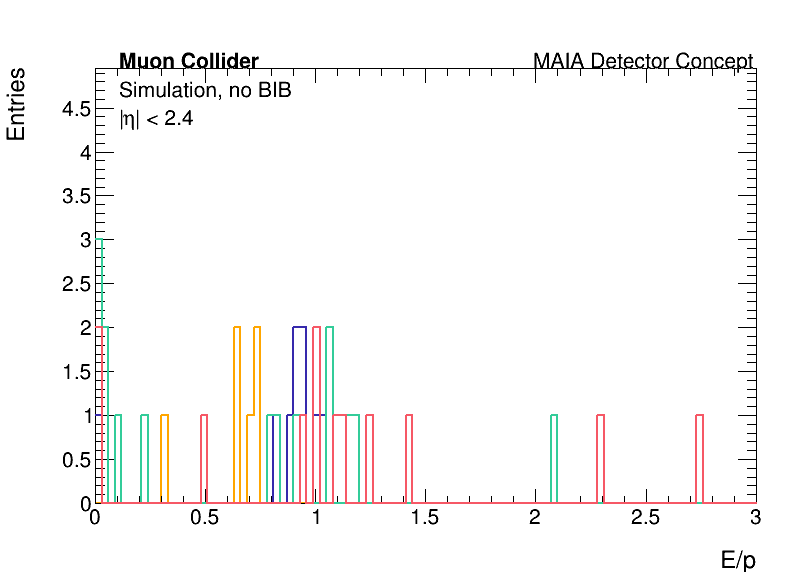
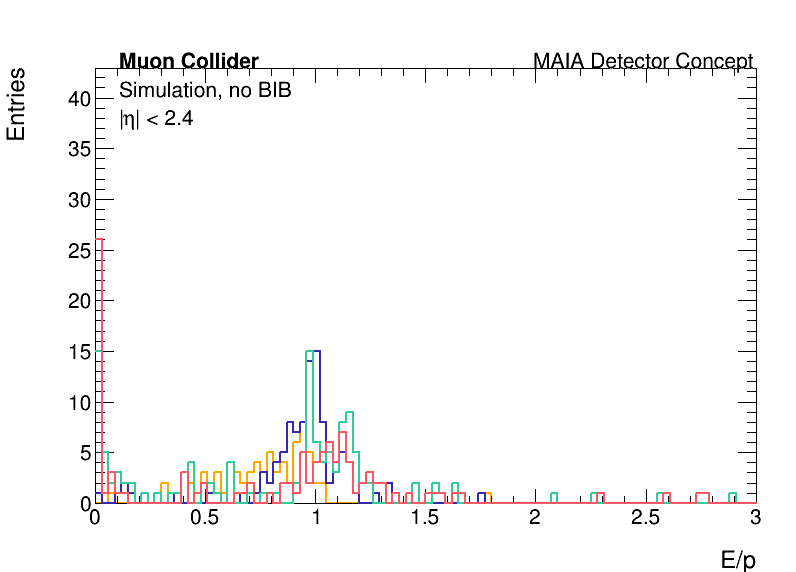
sigh: q

diff --git a/pfoReco2.py b/pfoReco2.py
@@ -12,7 +12,7 @@ os.makedirs("plots", exist_ok=True)
 exec(open("./plotHelper.py").read())
 ROOT.gROOT.SetBatch()
 
-max_events = 10
+max_events = 100
 
 samples = glob.glob("/data/fmeloni/DataMuC_MAIA_v0/v5/reco/electronGun*")
 
